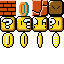
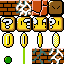
Block break animation, point streaks, flagpole images

diff --git a/02-Bubble/Scene.cpp b/02-Bubble/Scene.cpp
@@ -40,6 +40,7 @@ void Scene::init(int lvl)
 	// Level, coins, points, remainig time
 	level = lvl;
 	points = 0;
+	pointStreak = 0;
 	remTime = 400.f;
 
 	// Enemies initialization
@@ -174,12 +175,16 @@ void Scene::update(int deltaTime)
 				// Collision
 				if (enemies[ee]->killsEnemies()){
 					enemies[e]->die();
-					floatsToRender.push_back(glm::vec4(ONE_TH, 400, enemyPos.x, enemyPos.y - 16));
+					points += glm::min((1 << pointStreak), 8)*1000;
+					++pointStreak;
+					floatsToRender.push_back(glm::vec4(glm::min(EIGHT_TH + 0, ONE_TH + pointStreak), 400, enemyPos.x, enemyPos.y - 16));
 				}
 				else if (enemies[e]->killsEnemies()){
 					enemies[ee]->die();
+					points += glm::min((1 << pointStreak), 8)*1000;
+					++pointStreak;
 					glm::vec2 otherEnemyPos = enemies[ee]->getPosition();
-					floatsToRender.push_back(glm::vec4(ONE_TH, 400, otherEnemyPos.x, otherEnemyPos.y - 16));
+					floatsToRender.push_back(glm::vec4(glm::min(EIGHT_TH + 0, ONE_TH + pointStreak), 400, otherEnemyPos.x, otherEnemyPos.y - 16));
 				} 
 				else {
 					enemies[ee]->invertXVelocity();
@@ -191,33 +196,30 @@ void Scene::update(int deltaTime)
 
 		if (enemies[e]->collisionStomped(playerPos, playerSize) && !playerDeathStarted){
 			int enemyType = enemies[e]->getType();
+			++pointStreak;
+
+			int spriteThatWillRender = glm::min(EIGHT_TH + 0, ONE_TH + pointStreak);
 
 			switch (enemyType){
 				case 0: // GOOMBA
-				floatsToRender.push_back(glm::vec4(ONE_TH, 400, playerPos.x, playerPos.y + 16));
-				points += 1000;
+				floatsToRender.push_back(glm::vec4(spriteThatWillRender, 400, playerPos.x, playerPos.y));
+				points += glm::min((1 << pointStreak), 8) * 1000;
 				goombaMus.play();
 				goombaMus.setPlayingOffset(sf::Time::Zero);
 				break;
-				case 1:
-				floatsToRender.push_back(glm::vec4(ONE_TH, 400, playerPos.x, playerPos.y));
-				points += 1000;
+				case 1: // KOOPA TROOPA
+				floatsToRender.push_back(glm::vec4(spriteThatWillRender, 400, playerPos.x, playerPos.y));
+				points += glm::min((1 << pointStreak), 8) * 1000;
 				koopaMus.play();
 				koopaMus.setPlayingOffset(sf::Time::Zero);
 				break;
-				case 2:
-				// Mushroom
-				floatsToRender.push_back(glm::vec4(TWO_TH, 400, playerPos.x, playerPos.y));
-				points += 2000;
-				player->mushroom();
-				mushroomMus.play();
-				koopaMus.setPlayingOffset(sf::Time::Zero);
 
 			}
 
 			enemies[e]->stomp(playerPos);
 			player->jump(30);
 		} else if (enemies[e]->collisionKill(playerPos, playerSize)){
+			pointStreak = 0;
 			player->die();
 			playerDeathStarted = player->hasDeathAnimStarted();
 			if (playerDeathStarted) defaultMus.stop();
@@ -234,6 +236,8 @@ void Scene::update(int deltaTime)
 		glm::ivec2 itemSize = items[i]->getSize();
 
 		if (items[i]->collisionStomped(playerPos, playerSize) || items[i]->collisionKill(playerPos, playerSize)){
+			points += 1000;
+			floatsToRender.push_back(glm::vec4(ONE_TH, 400, playerPos.x, playerPos.y - 16));
 			player->mushroom();
 			mushroomMus.play();
 			mushroomMus.setPlayingOffset(sf::Time::Zero);

diff --git a/02-Bubble/Block.cpp b/02-Bubble/Block.cpp
@@ -6,7 +6,7 @@
 
 enum BlockAnims
 {
-    QUESTION, COIN, BREAKABLE, UNBREAKABLE 
+    QUESTION, COIN, BREAKABLE, UNBREAKABLE, BREAK
 };
 
 enum QuestionBlockContainer
@@ -38,7 +38,7 @@ void Block::init(const glm::ivec2& tileMapPos, ShaderProgram& shaderProgram, int
     spritesheet.loadFromFile("images/blocks.png", TEXTURE_PIXEL_FORMAT_RGBA);
 	sprite = Sprite::createSprite(glm::ivec2(16, 16), glm::vec2(0.25, 0.25), &spritesheet, &shaderProgram);
 
-    sprite->setNumberAnimations(4);
+    sprite->setNumberAnimations(5);
 
     sprite->setAnimationSpeed(QUESTION, 4);
     sprite->addKeyframe(QUESTION, glm::vec2(0.f, 0.25f));
@@ -57,6 +57,12 @@ void Block::init(const glm::ivec2& tileMapPos, ShaderProgram& shaderProgram, int
 
     sprite->setAnimationSpeed(UNBREAKABLE, 1);
     sprite->addKeyframe(UNBREAKABLE, glm::vec2(0.75f, 0.f));
+
+    sprite->setAnimationSpeed(BREAK, 10);
+    sprite->addKeyframe(BREAK, glm::vec2(0.5f, 0.75f));
+    sprite->addKeyframe(BREAK, glm::vec2(0.75f, 0.75f));
+    sprite->addKeyframe(BREAK, glm::vec2(0.25f, 0.f));
+
     
     if (blockType == T_COIN) sprite->changeAnimation(COIN);
     else if (blockType == T_QUESTION_COIN || blockType == T_QUESTION_MUSH || blockType == T_QUESTION_STAR) sprite->changeAnimation(QUESTION);
@@ -69,7 +75,7 @@ void Block::init(const glm::ivec2& tileMapPos, ShaderProgram& shaderProgram, int
 }
 
 void Block::update(int deltaTime){
-    if (animBump){
+    if (animBump && !blockKO){
         if (animTimer > 100) posItem.y -= 1;
         else if (animTimer > 0){
             posItem.y += 1;
@@ -81,6 +87,11 @@ void Block::update(int deltaTime){
         else animBump = 0;
 
         animTimer -= deltaTime;
+    }
+
+    if (animBreak && !blockKO){
+        breakTimer -= deltaTime;
+        if (breakTimer <= 0) blockKO = true;
     }
 
     posItem.x += vel.x;
@@ -104,10 +115,13 @@ void Block::setPosition(const glm::vec2& pos)
 
 void Block::breakBlock()
 {
-    blockKO = true;
+    if (blockKO) return;
+
+    sprite->changeAnimation(BREAK);
+    animBreak = true;
+    breakTimer = 200;
     breakblock.play();
     breakblock.setPlayingOffset(sf::Time::Zero);
-
 }
 
 bool Block::isBroken(){ return blockKO; }

diff --git a/02-Bubble/Item.cpp b/02-Bubble/Item.cpp
@@ -228,7 +228,7 @@ void Item::stomp(const glm::ivec2& pos){
 
 }
 
-bool Item::isDead(){ return itemKO; }
+bool Item::isDead(){ return itemKO || deadAnimStart; }
 bool Item::killsEnemies() { return typeItem == KOOPA && koopaShell && vel.x != 0; }
 
 glm::vec2 Item::getPosition(){ return posItem; }

diff --git a/02-Bubble/Block.h b/02-Bubble/Block.h
@@ -26,8 +26,8 @@ class Block
     glm::ivec2 tileMapDispl;
     Texture spritesheet;
     Sprite* sprite;
-    int animTimer;
-    bool animBump;
+    int animTimer, breakTimer;
+    bool animBump, animBreak;
 	sf::Music breakblock, coinMus;
 
     bool blockKO;

diff --git a/02-Bubble/TileMap.cpp b/02-Bubble/TileMap.cpp
@@ -14,6 +14,8 @@ enum BlockTypes
     T_QUESTION_MUSH = 6,
     T_QUESTION_STAR = 7,
     T_UNBREAKABLE = 10,
+	T_FLAGPOLE = 11,
+	T_UPPERPOLE = 12
 };
 /* We use negative numbers to represent dynamic objects*/
 

diff --git a/02-Bubble/Scene.h b/02-Bubble/Scene.h
@@ -60,7 +60,7 @@ private:
 	sf::Music defaultMus, goombaMus, koopaMus, mushroomMus;
 	bool playerDeathStarted;
 
-	int points, level;
+	int points, level, pointStreak;
 	float remTime;
 };
 
